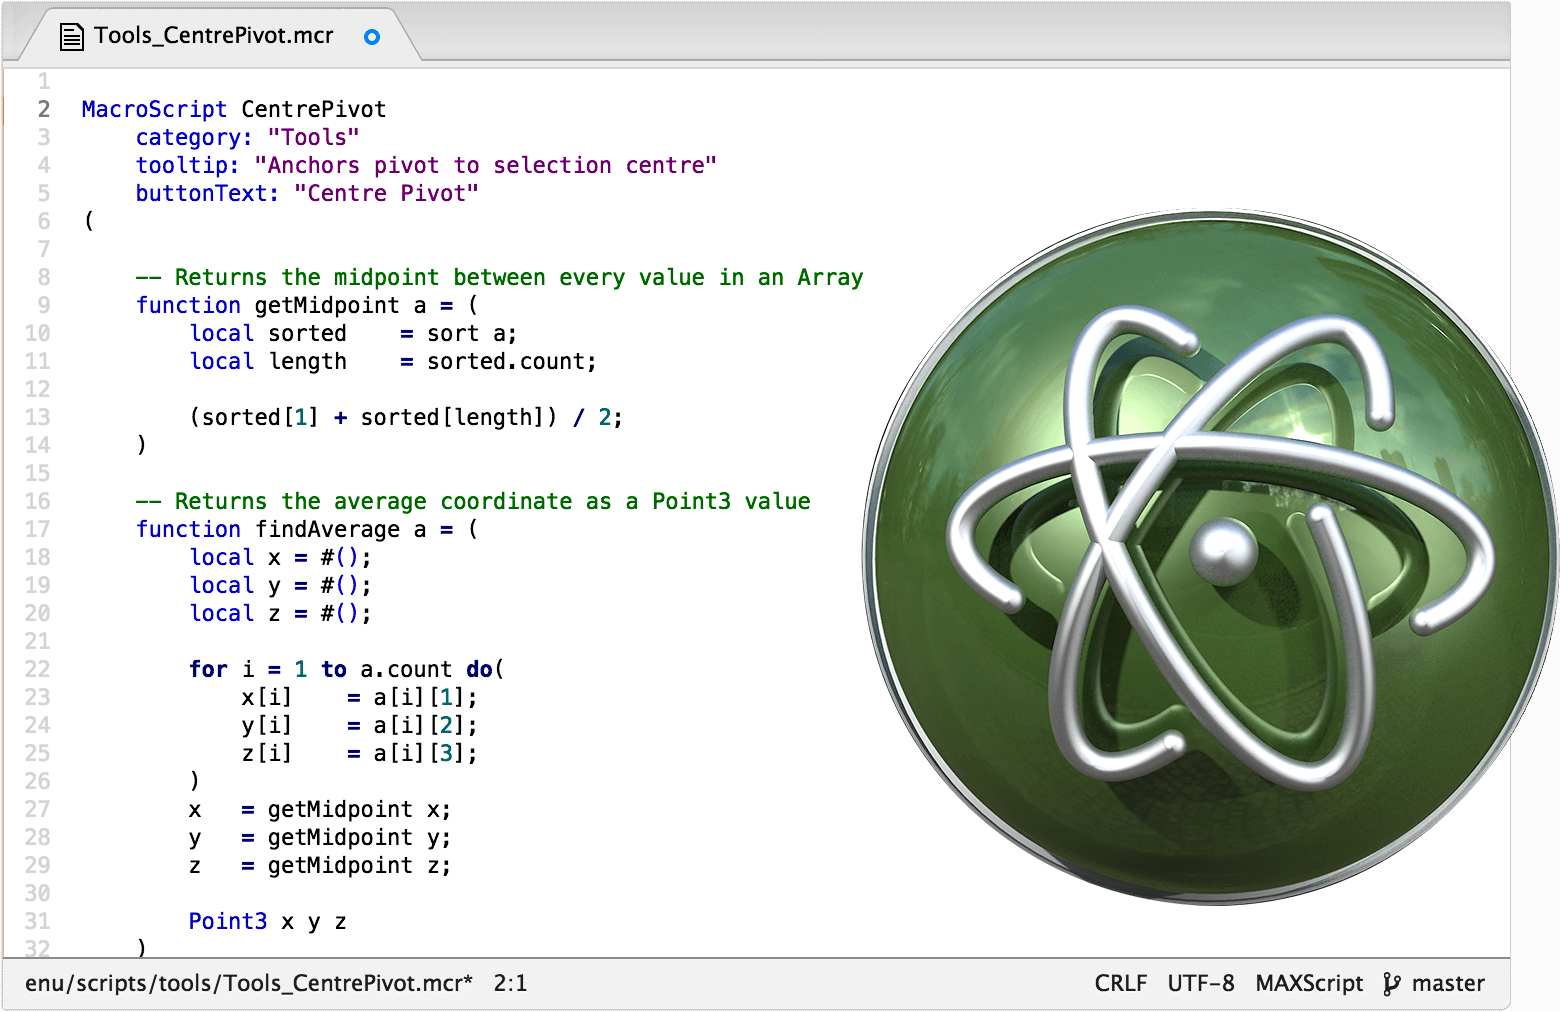
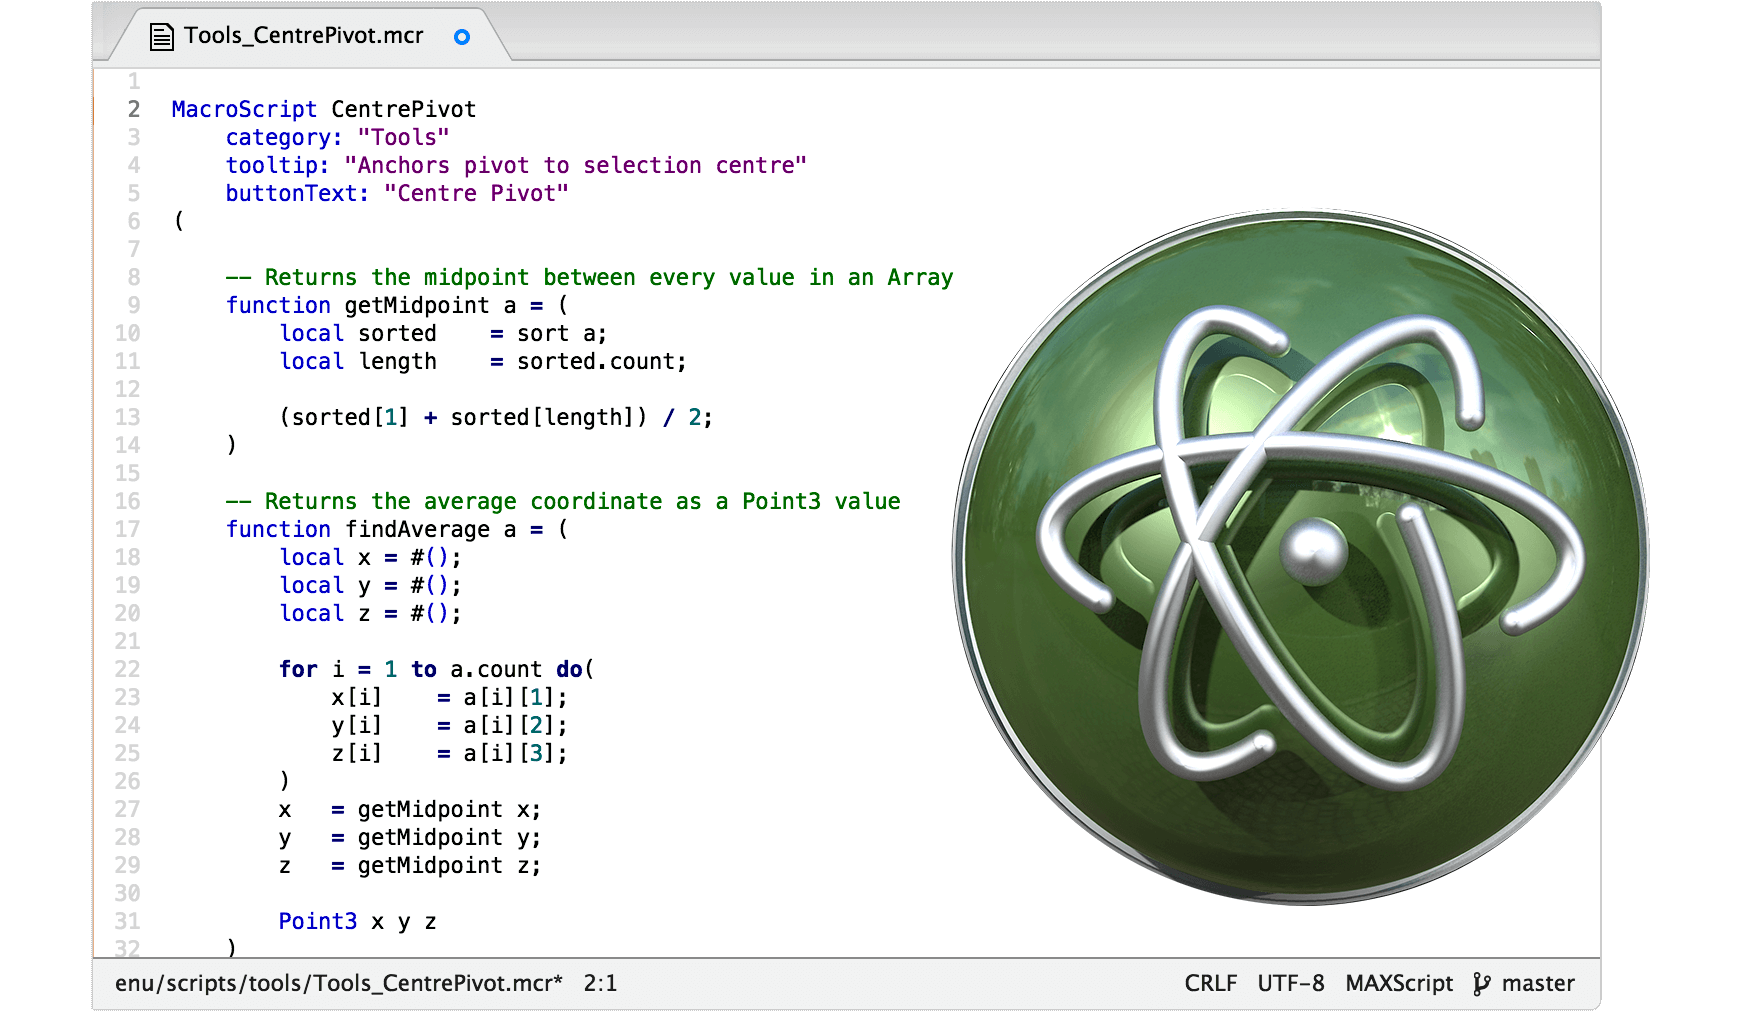
Fix display issues with readme image
* Added: Horizontal whitespace to centre/shrink image
* Fixed: Image not appearing when viewed on Atom.io

diff --git a/README.md b/README.md
@@ -2,7 +2,7 @@
 
 This package adds support for [MAXScript](http://www.autodesk.com/3dsmax-maxscript-2012-enu), the built-in scripting language for [Autodesk® 3ds Max®](http://www.autodesk.com.au/products/3ds-max/overview). If you have no idea what either of those are, you needn't bother installing this.
 
-![Up and Atom](preview.png)
+![Up and Atom](https://raw.githubusercontent.com/Alhadis/language-maxscript/master/preview.png)
 
 
 Contributing
@@ -12,7 +12,7 @@ This was more work than I thought it would be, so if anything appears even remot
 
 Usage
 -----
-Some users might wish to replicate the same look-and-feel of 3DS Max's built-in editor. In which case, they can use [this](mxs-scintilla.less) as a starting-point:
+Some users may wish to replicate the same look-and-feel of 3DS Max's built-in editor. In which case, they can use [this](mxs-scintilla.less) as a starting-point:
 
 
 ```less
